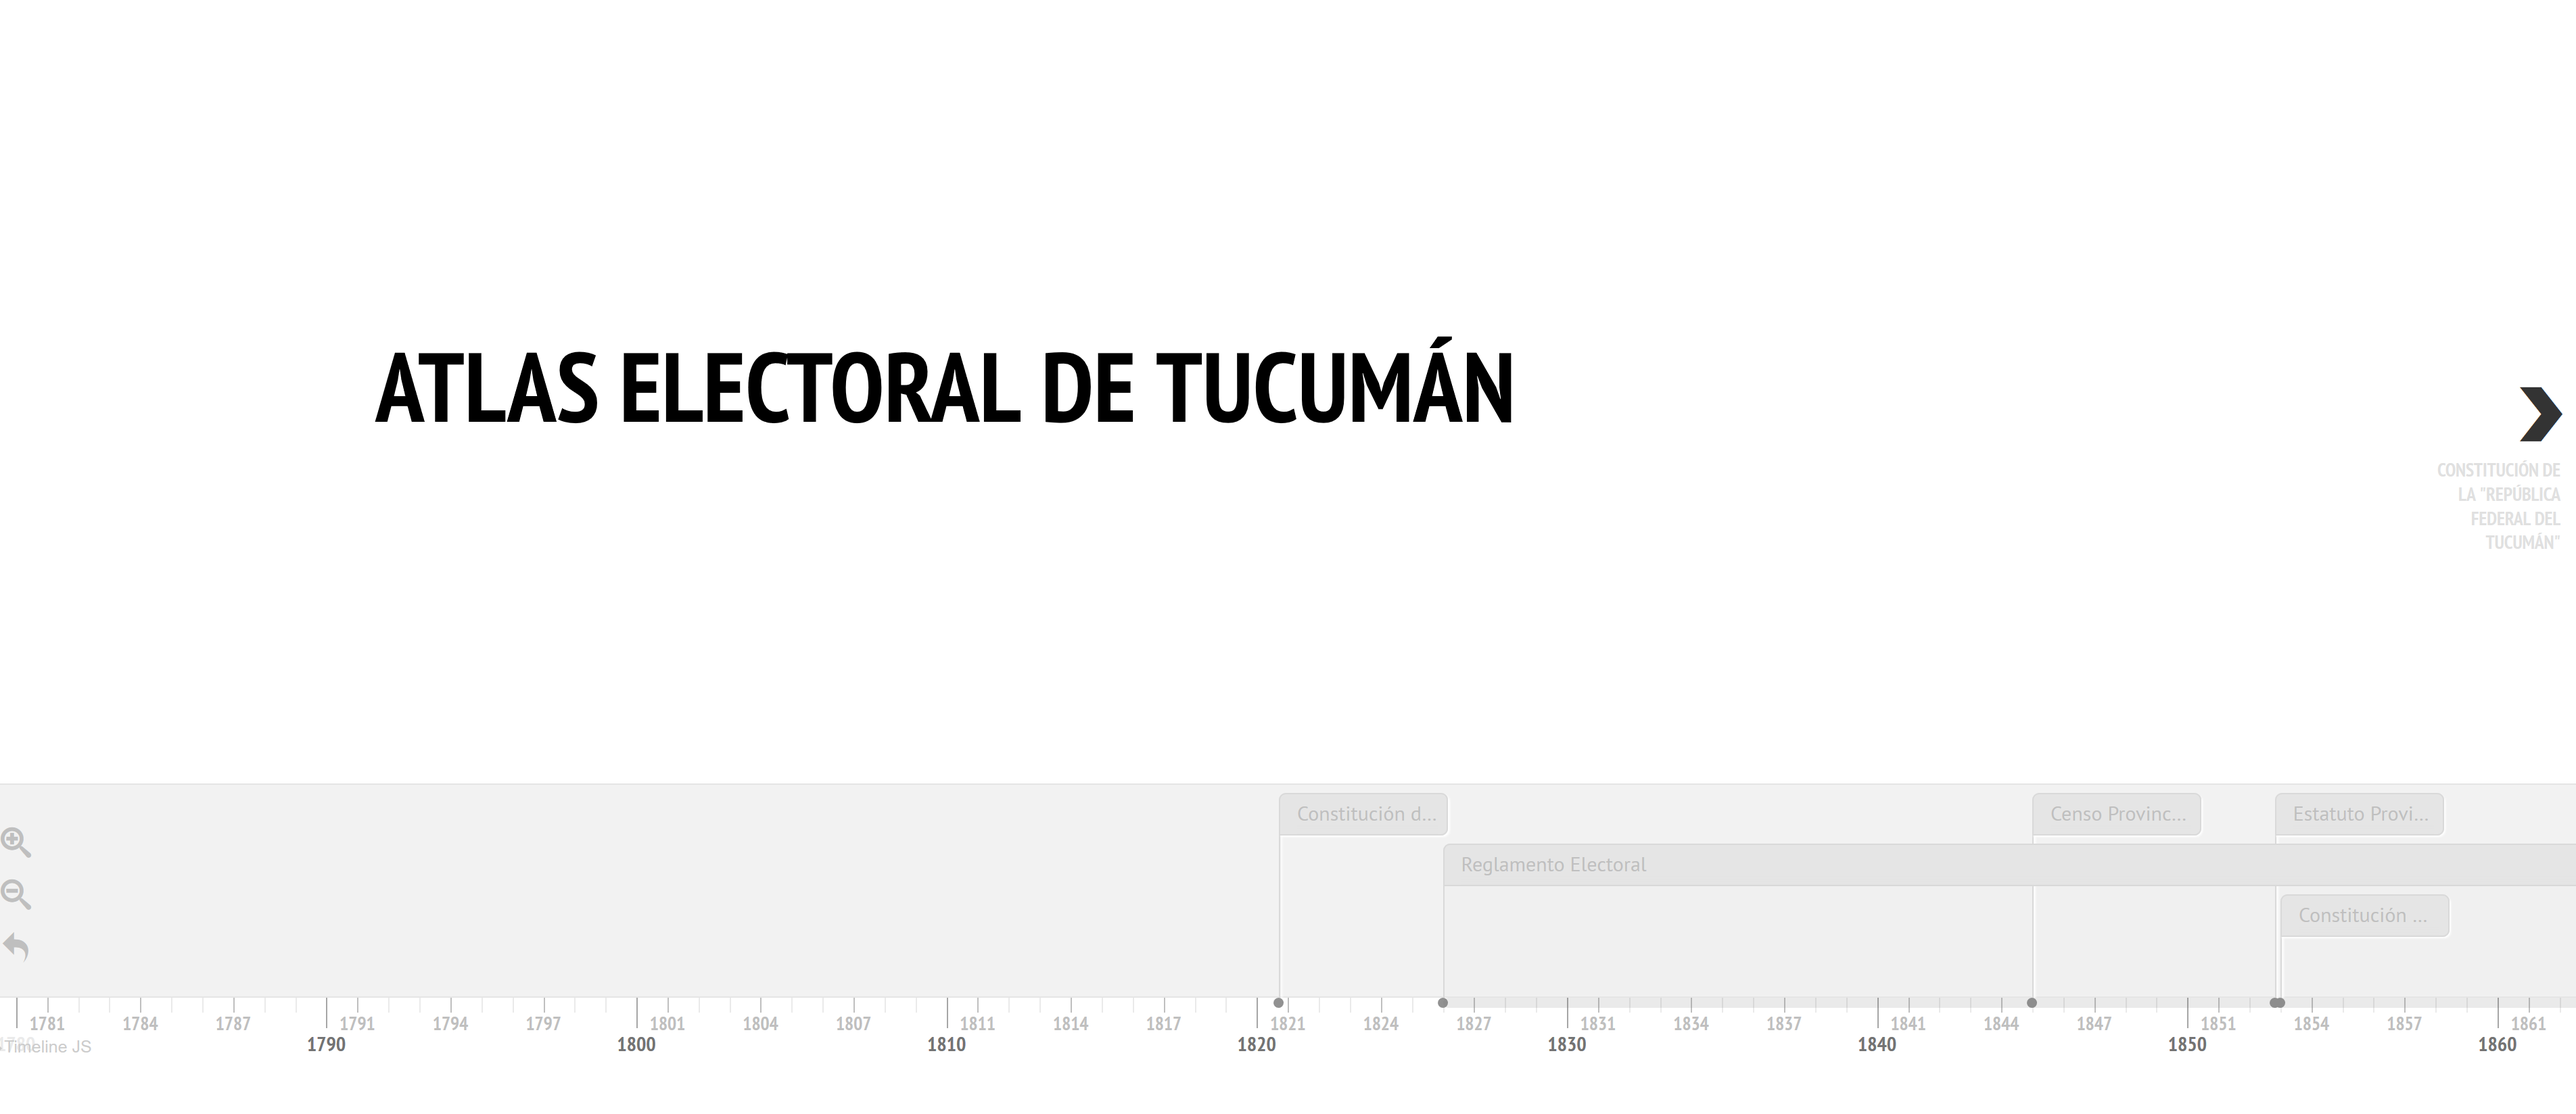
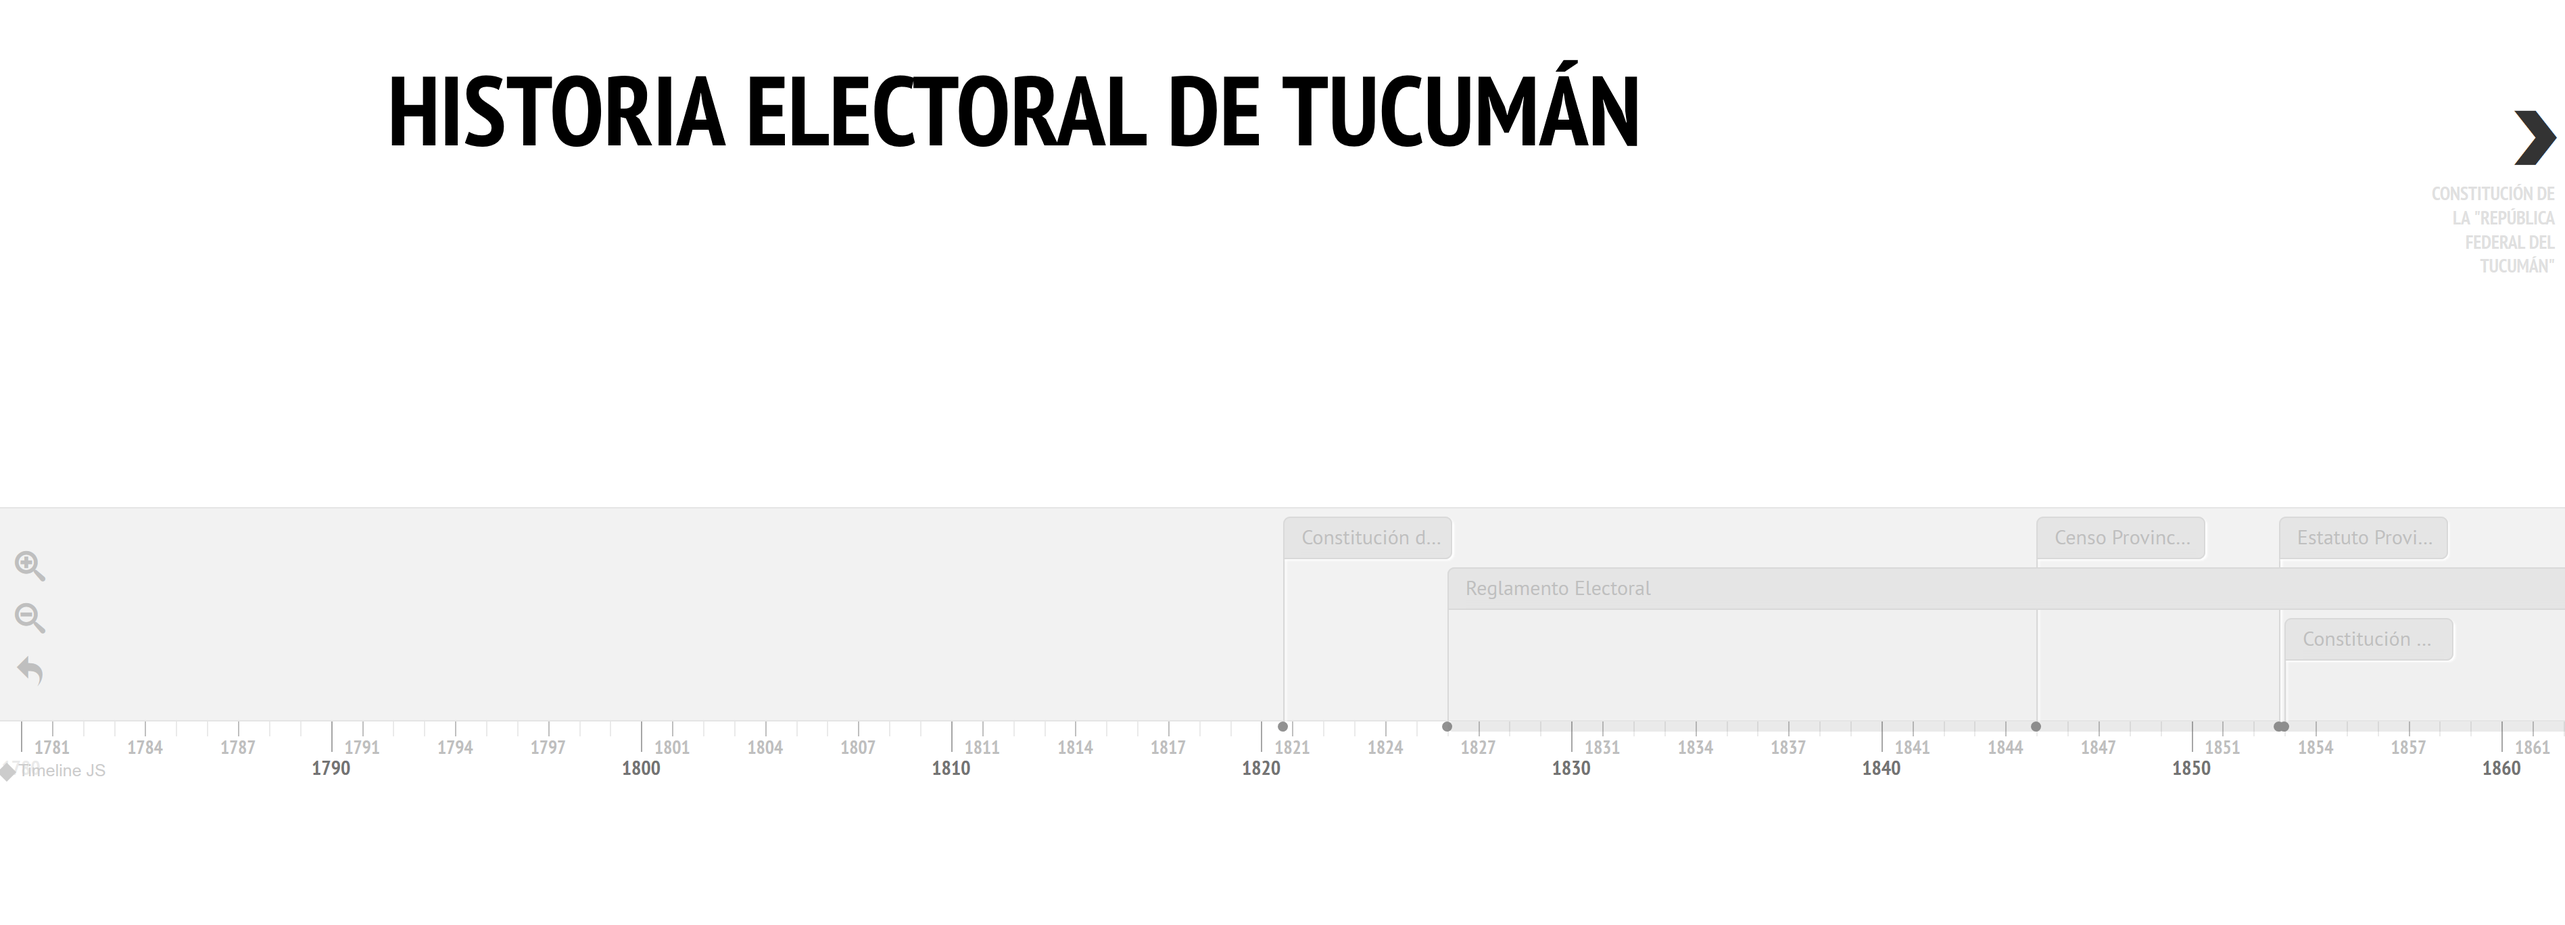
Site rebuild Tue, Jan 29, 2019  3:18:26 PM

diff --git a/public/services/index.html b/public/services/index.html
@@ -105,7 +105,7 @@
 </div>      
     
 
-<div id="hero" class="hero-image hero-image-setheight" style="background-image: url('/images/timeline.png')">
+<div id="hero" class="hero-image hero-image-setheight" style="background-image: url('/')">
   <div class="container ">
     <div class="hero-text">
       <span class="hero-section"></span>
@@ -115,6 +115,19 @@
   </div>
 </div>
   
+
+<div class="container pt-6 pt-md-10">
+  <div class="row">
+    <div class="col-12">
+      <div class="page-intro">
+        <div> 
+<iframe src='https://cdn.knightlab.com/libs/timeline3/latest/embed/index.html?source=1bcmwXBAJtzJDDTNw7qTqG_s4lv_eBR0HIHwcb8QOHuE&font=Default&lang=es&timenav_position=top&initial_zoom=2&height=650' width='100%' height='650' webkitallowfullscreen mozallowfullscreen allowfullscreen frameborder='0'></iframe>
+</div>
+
+      </div>
+    </div>
+  </div>
+</div>
 
 
 

diff --git a/public/about/index.html b/public/about/index.html
@@ -105,7 +105,7 @@
 </div>      
     
 
-<div class="hero-image hero-image-fullscreen" style="background-image: url('https://source.unsplash.com/sO-JmQj95ec/1600x1000');">
+<div class="hero-image hero-image-fullscreen" style="background-image: url('/image/mapa_acuarela.jpeg');">
     <div class="container ">
       <div class="hero-text">
         <span class="hero-section"></span>
@@ -163,7 +163,7 @@
 
 
 
-<div class="strip bg-cover bg-position-center bg-overlay pt-15 pb-15" style="background-image: url(' https://source.unsplash.com/zglUlG8k47I/1600x500 ');">
+<div class="strip bg-cover bg-position-center bg-overlay pt-15 pb-15" style="background-image: url(' /image/logo_full.jpeg ');">
   <div class="container">
     <div class="row">
       <div class="col-12 col-md-6">

diff --git a/public/pages/index.html b/public/pages/index.html
@@ -125,7 +125,7 @@
 
 
 
-<div class="strip bg-cover bg-position-center bg-overlay pt-15 pb-15" style="background-image: url(' https://source.unsplash.com/zglUlG8k47I/1600x500 ');">
+<div class="strip bg-cover bg-position-center bg-overlay pt-15 pb-15" style="background-image: url(' /image/logo_full.jpeg ');">
   <div class="container">
     <div class="row">
       <div class="col-12 col-md-6">

diff --git a/content/services/_index.md b/content/services/_index.md
@@ -3,5 +3,10 @@ title: 'Historia Electoral'
 date: 2018-02-10T11:52:18+07:00
 heroHeading: 'Línea de tiempo'
 heroSubHeading: 'Acá va un poco de txt'
-heroBackground: '/images/timeline.png'
+heroBackground: ''
 ---
+
+
+<div> 
+<iframe src='https://cdn.knightlab.com/libs/timeline3/latest/embed/index.html?source=1bcmwXBAJtzJDDTNw7qTqG_s4lv_eBR0HIHwcb8QOHuE&font=Default&lang=es&timenav_position=top&initial_zoom=2&height=650' width='100%' height='650' webkitallowfullscreen mozallowfullscreen allowfullscreen frameborder='0'></iframe>
+</div>

diff --git a/content/pages/about/index.md b/content/pages/about/index.md
@@ -4,7 +4,7 @@ date: 2018-12-06T09:29:16+10:00
 layout: 'aboutlayout'
 heroHeading: 'Atlas Electoral de Tucumán'
 heroSubHeading: "Acá va un texto."
-heroBackground: 'https://source.unsplash.com/sO-JmQj95ec/1600x1000'
+heroBackground: 'image/mapa_acuarela.jpeg'
 ---
 
 <div>

diff --git a/content/pages/about/content1.md b/content/pages/about/content1.md
@@ -1,7 +1,7 @@
 ---
 title: 'About Content 1'
 date: 2018-12-06T09:29:16+10:00
-background: 'https://source.unsplash.com/zglUlG8k47I/1600x500'
+background: 'image/logo_full.jpeg'
 button: ''
 ---
 
